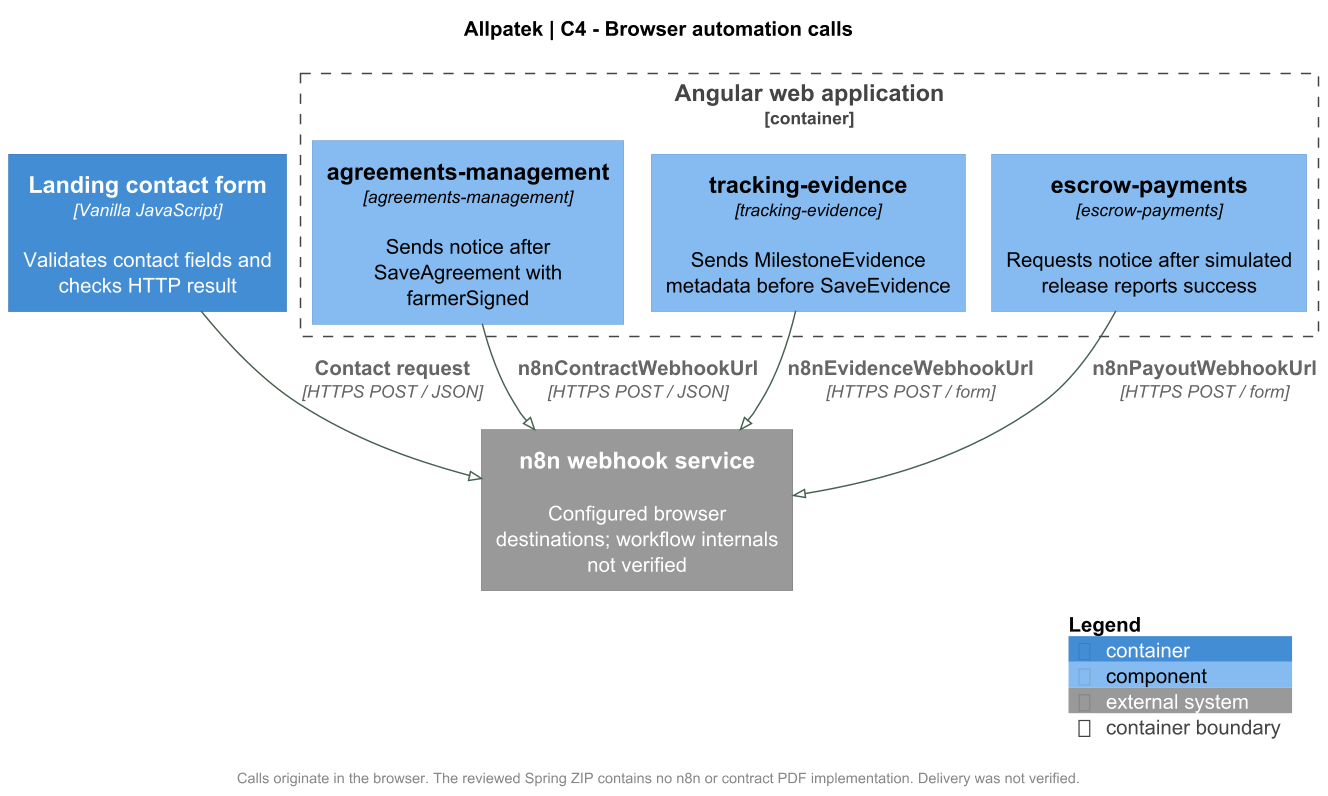
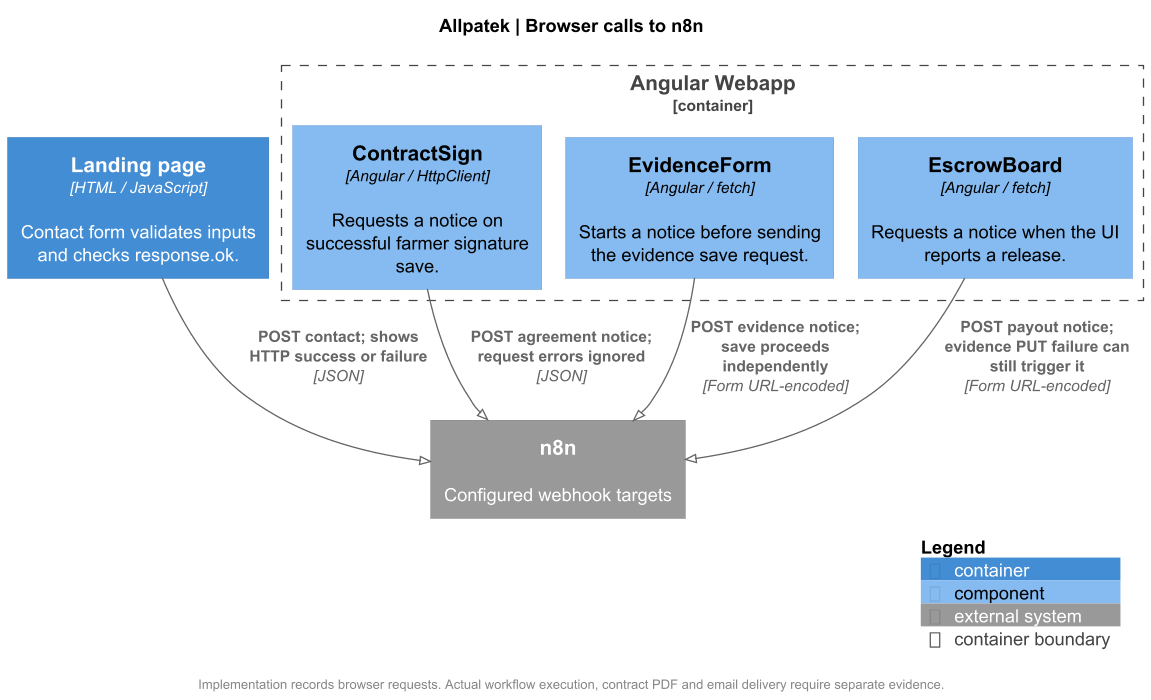
docs(c4): distinguish webhook requests from confirmed delivery

diff --git a/README.md b/README.md
@@ -2125,11 +2125,11 @@ Cada recuadro dentro del límite de Allpatek representa una unidad que se puede 
 
 *Figura 4.6.4-C. Componentes de la landing.* <a href="assets/chapter-04/architecture/06-landing-components.puml" style="text-decoration: none;">Fuente PlantUML</a> · <a href="assets/chapter-04/architecture/06-landing-components.svg" style="text-decoration: none;">SVG</a>.
 
-**Automatización.** El navegador solicita notificaciones para contacto, acuerdo, evidencia y liberación simulada. En la SPA, la llamada de acuerdo se intenta después de guardar la segunda aceptación; la de evidencia se inicia antes del guardado, y la de liberación depende del resultado que informa la UI. El código revisado no confirma la generación de PDF ni la entrega del correo. Spring no dispara estos webhooks en el ZIP.
+**Automatización.** La landing comprueba la respuesta HTTP al enviar el contacto. En la SPA, la notificación de acuerdo se solicita tras guardar la segunda aceptación. El aviso de evidencia se inicia antes de conocer el resultado del guardado. En la bóveda, un error al guardar la liberación se puede convertir en éxito local y disparar el aviso. La figura identifica los puntos de llamada. El resultado del workflow, la entrega del correo y el PDF requieren evidencia independiente.
 
-![Figura 4.6.4-D. Invocaciones de webhooks desde el navegador](assets/chapter-04/architecture/07-n8n-components.png)
+![Figura 4.6.4-D. Puntos de llamada a n8n desde las aplicaciones](assets/chapter-04/architecture/07-n8n-components.png)
 
-*Figura 4.6.4-D. Invocaciones de webhooks desde el navegador.* <a href="assets/chapter-04/architecture/07-n8n-components.puml" style="text-decoration: none;">Fuente PlantUML</a> · <a href="assets/chapter-04/architecture/07-n8n-components.svg" style="text-decoration: none;">SVG</a>.
+*Figura 4.6.4-D. Puntos de llamada a n8n desde las aplicaciones.* [Ampliar en SVG](assets/chapter-04/architecture/07-n8n-components.svg) · [Fuente PlantUML](assets/chapter-04/architecture/07-n8n-components.puml).
 
 ## 4.7. Software Object-Oriented Design
 
